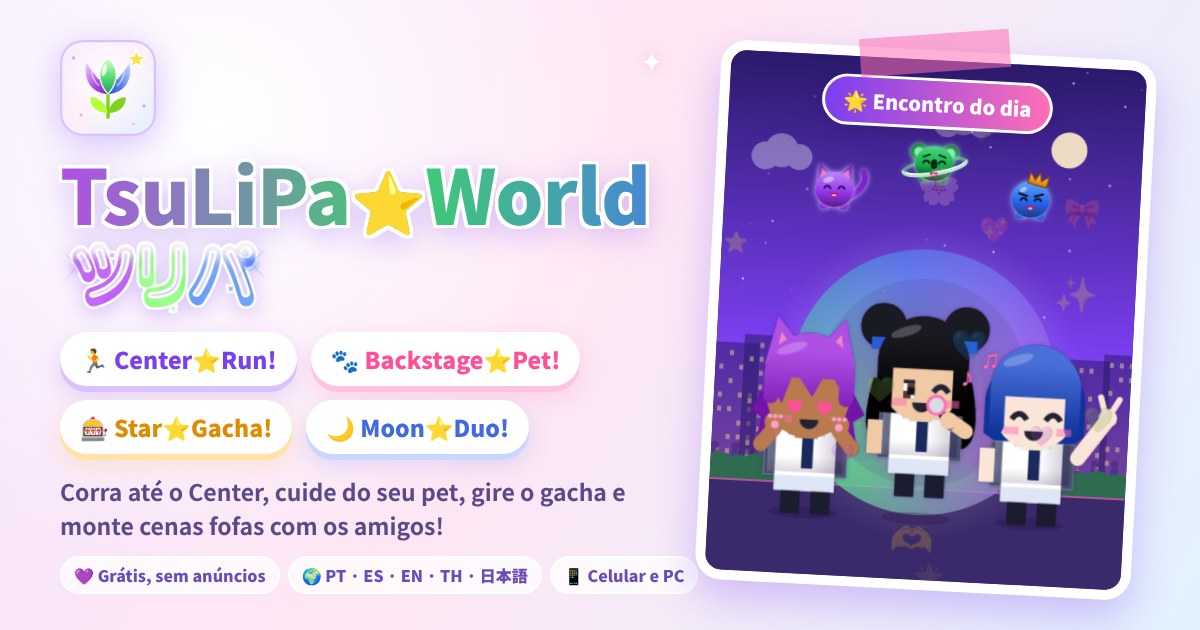
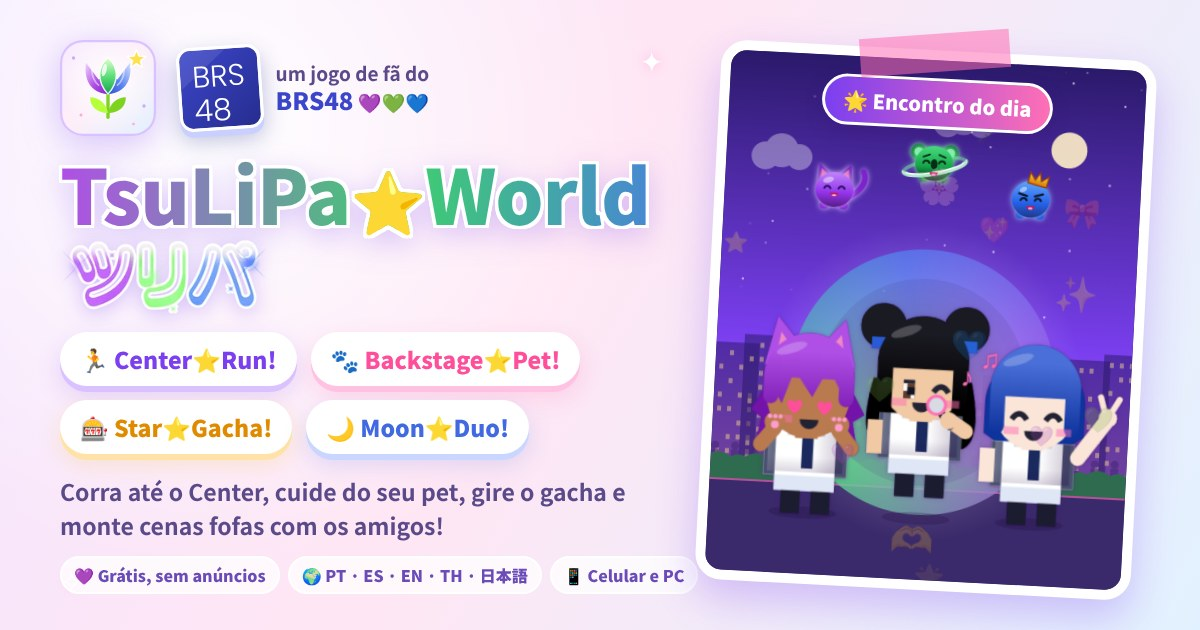
Moderação: completar missões do dia e Liberar tudo; OG com selo do BRS48
Claude-Session: https://claude.ai/code/session_01XGVFxJ3mBe4Ma5WA6JJQdv

Changed region(s): [[0.1233, 0.0603, 0.37, 0.2413]]

diff --git a/index.html b/index.html
@@ -23,14 +23,14 @@
 <meta property="og:title" content="TsuLiPa⭐World">
 <meta property="og:description" content="Corra até o Center, cuide do seu pet, gire o Star⭐Gacha! e monte cenas com amigos no Moon⭐Duo! Um jogo do TsuLiPa (BRS48).">
 <meta property="og:url" content="https://tsulipa-world.vercel.app/">
-<meta property="og:image" content="https://tsulipa-world.vercel.app/og.jpg?v=8">
+<meta property="og:image" content="https://tsulipa-world.vercel.app/og.jpg?v=9">
 <meta property="og:image:width" content="1200">
 <meta property="og:image:height" content="630">
 <meta property="og:locale" content="pt_BR">
 <meta name="twitter:card" content="summary_large_image">
 <meta name="twitter:title" content="TsuLiPa⭐World">
 <meta name="twitter:description" content="Corra até o Center, cuide do seu pet, gire o Star⭐Gacha! e monte cenas com amigos no Moon⭐Duo!">
-<meta name="twitter:image" content="https://tsulipa-world.vercel.app/og.jpg?v=8">
+<meta name="twitter:image" content="https://tsulipa-world.vercel.app/og.jpg?v=9">
 <link rel="manifest" href="manifest.json">
 <meta name="google-site-verification" content="J49ekjyq4BDr6eOcluPFBIOG14ahyJAs0NrObrKJqOs" />
 <title>TsuLiPa⭐World</title>
@@ -616,6 +616,8 @@ body{background:radial-gradient(circle at 0 0,rgba(255,111,181,.22),transparent 
 @keyframes encflash{from{opacity:.9}to{opacity:0}}
 #petov{z-index:23!important}
 #shr{z-index:30!important}
+
+.hubadmmis{display:block;margin:8px auto 0;font-size:13px}
 .petph{margin-top:10px;display:flex;flex-direction:column;gap:6px}
 .petph[hidden]{display:none}
 .petph div{display:flex;flex-wrap:wrap;gap:5px;justify-content:center;align-items:center}
@@ -10056,6 +10058,60 @@ function encEmojis(x, W2, H2, t){   // emojis fofos levitando
   ['Som desligado', 'Sound off', 'Sonido desactivado', 'ปิดเสียง', 'サウンドオフ']
 ].forEach(function(t){ ['en', 'es', 'th', 'ja'].forEach(function(l, i){ if(DICT[l]) DICT[l][t[0]] = t[i + 1]; }); });
 if(typeof applyLang === 'function'){ try{ applyLang(); ovSomUI(); }catch(e){} }
+
+// --- MODERAÇÃO: completar as missões do dia e "Liberar tudo" (só para a conta de moderação) ---
+// O servidor confere eh_admin() em admin_missoes_completar e libera o salvar_avatar só para a moderação.
+var ADM_LIVRE_KEY = 'brs48cr_admlivre';
+function admLivre(){ var v = false; try{ v = localStorage.getItem(ADM_LIVRE_KEY) === '1'; }catch(e){} return v && typeof contaAdmin === 'function' && contaAdmin(); }
+(function(){   // com "Liberar tudo" ligado, todo item pago conta como seu
+  var pt = perfTem; perfTem = function(){ return admLivre() || pt.apply(this, arguments); };
+  var lt = lojaTem; lojaTem = function(){ return admLivre() || lt.apply(this, arguments); };
+  var ld = perfLojaDono; perfLojaDono = function(){ return admLivre() ? PERF_LOJA.map(function(o){ return o[0]; }) : ld.apply(this, arguments); };
+})();
+function admLivreBtn(){ var on = admLivre();
+  return '<button type="button" class="btn' + (on ? '' : ' alt') + '" id="admLivre" aria-pressed="' + on + '">' + (on ? '🔓 ' : '🔒 ') + escHtml(tr(on ? 'Liberar tudo: ligado' : 'Liberar tudo: desligado')) + '</button>'; }
+if(typeof temaAdminHtml === 'function'){ var admToolsOrig = temaAdminHtml; temaAdminHtml = function(){
+  return admToolsOrig() + '<button type="button" class="btn alt" data-admmis="1">🎯 ' + escHtml(tr('Completar missões do dia')) + '</button>' + admLivreBtn() +
+    '<small class="admnota">🔓 ' + escHtml(tr('Liberar tudo: todas as roupas, poses, fundos, expressões e itens do Moon⭐Duo! ficam livres para você testar. Desligado, volta a valer só o que você comprou.')) + '</small>'; }; }
+var hubMisUIOrig = hubMisUI;
+hubMisUI = function(){ hubMisUIOrig.apply(this, arguments);
+  if(!contaJ || !hubMisDados || !contaAdmin() || !hubMisDados.some(function(m){ return !m.feito; })) return;
+  var box = $('hubMis'); if(box) box.insertAdjacentHTML('beforeend', '<button type="button" class="btn alt hubadmmis" data-admmis="1">🛡 ' + escHtml(tr('Completar missões do dia')) + '</button>');
+};
+document.addEventListener('click', function(e){
+  var b = e.target.closest && e.target.closest('[data-admmis]');
+  if(b){ if(!contaAdmin()) return; b.disabled = true;
+    contaRpc('admin_missoes_completar').then(function(r){
+      b.disabled = false;
+      if(r && r.ok){
+        if(typeof r.stars === 'number'){ starT = r.stars; try{ localStorage.setItem('brs48cr_st', starT); }catch(e2){} setBest(); }
+        var msg = '🎯 ' + tr('Missões completas!') + (r.premio ? ' +★' + r.premio : '');
+        if(typeof perfTopoMsg === 'function') perfTopoMsg(msg); b.textContent = msg; if(sfx.rank) sfx.rank();
+        hubMisCarregar();
+      }
+    }).catch(function(){ b.disabled = false; });
+    return;
+  }
+  if(e.target.closest && e.target.closest('#admLivre')){
+    if(!contaAdmin()) return;
+    var on = !admLivre(); try{ localStorage.setItem(ADM_LIVRE_KEY, on ? '1' : '0'); }catch(e3){}
+    var lb = $('admLivre'); if(lb) lb.outerHTML = admLivreBtn();
+    try{ perfLojaOpcoes(); }catch(e4){}
+    if(typeof perfTopoMsg === 'function') perfTopoMsg(on ? '🔓 ' + tr('Liberar tudo: ligado') : '🔒 ' + tr('Liberar tudo: desligado'));
+    beep(on ? 1175 : 660, .06, 'triangle', .04);
+  }
+});
+[
+  ['Completar missões do dia', 'Complete daily missions', 'Completar misiones del día', 'ทำภารกิจประจำวันให้ครบ', 'きょうのミッションを完了'],
+  ['Missões completas!', 'Missions complete!', '¡Misiones completas!', 'ทำภารกิจครบแล้ว!', 'ミッション完了！'],
+  ['Liberar tudo: ligado', 'Unlock all: on', 'Liberar todo: activado', 'ปลดล็อกทั้งหมด: เปิด', 'すべて解放：オン'],
+  ['Liberar tudo: desligado', 'Unlock all: off', 'Liberar todo: desactivado', 'ปลดล็อกทั้งหมด: ปิด', 'すべて解放：オフ'],
+  ['Liberar tudo: todas as roupas, poses, fundos, expressões e itens do Moon⭐Duo! ficam livres para você testar. Desligado, volta a valer só o que você comprou.',
+   'Unlock all: every outfit, pose, background, expression and Moon⭐Duo! item is free for you to test. When off, only what you bought counts again.',
+   'Liberar todo: toda la ropa, poses, fondos, expresiones y objetos de Moon⭐Duo! quedan libres para probar. Desactivado, vuelve a contar solo lo que compraste.',
+   'ปลดล็อกทั้งหมด: ชุด ท่าโพส ฉาก สีหน้า และไอเทม Moon⭐Duo! ใช้ทดสอบได้ทั้งหมด เมื่อปิด จะใช้ได้เฉพาะที่ซื้อแล้ว',
+   'すべて解放：服・ポーズ・背景・表情・Moon⭐Duo!のアイテムをすべてテストに使えます。オフにすると、買ったものだけに戻ります。']
+].forEach(function(t){ ['en', 'es', 'th', 'ja'].forEach(function(l, i){ if(DICT[l]) DICT[l][t[0]] = t[i + 1]; }); });
 
 hubMostrar();
 // --- FIM DA TELA DE INÍCIO E DOS TEMAS (V2.1.3) ---
